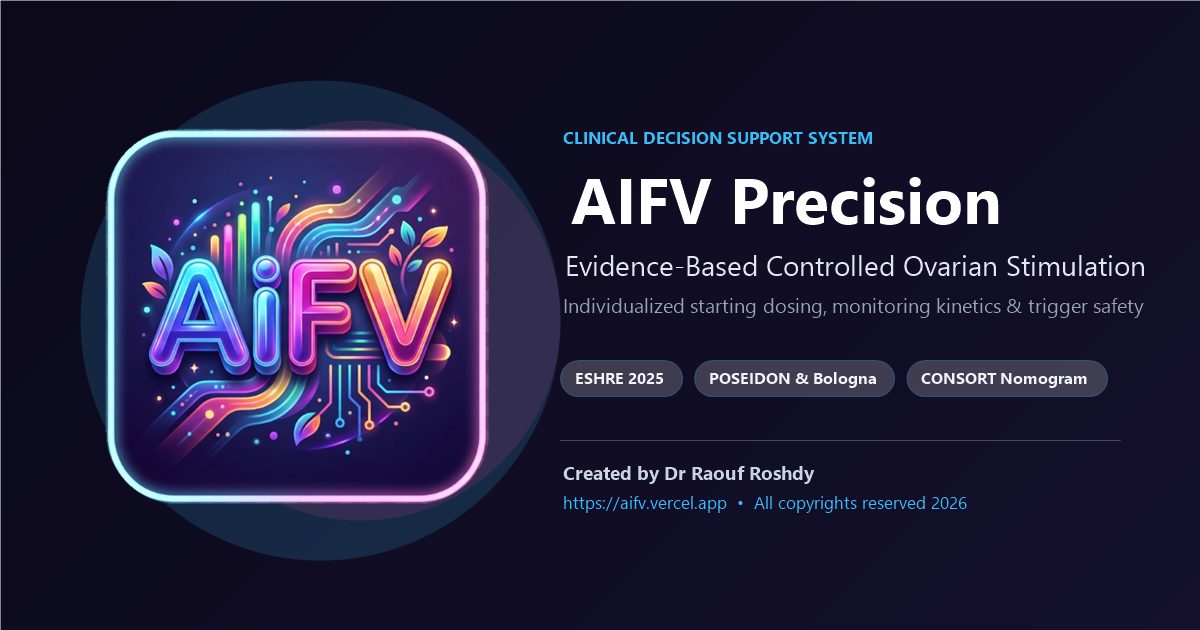
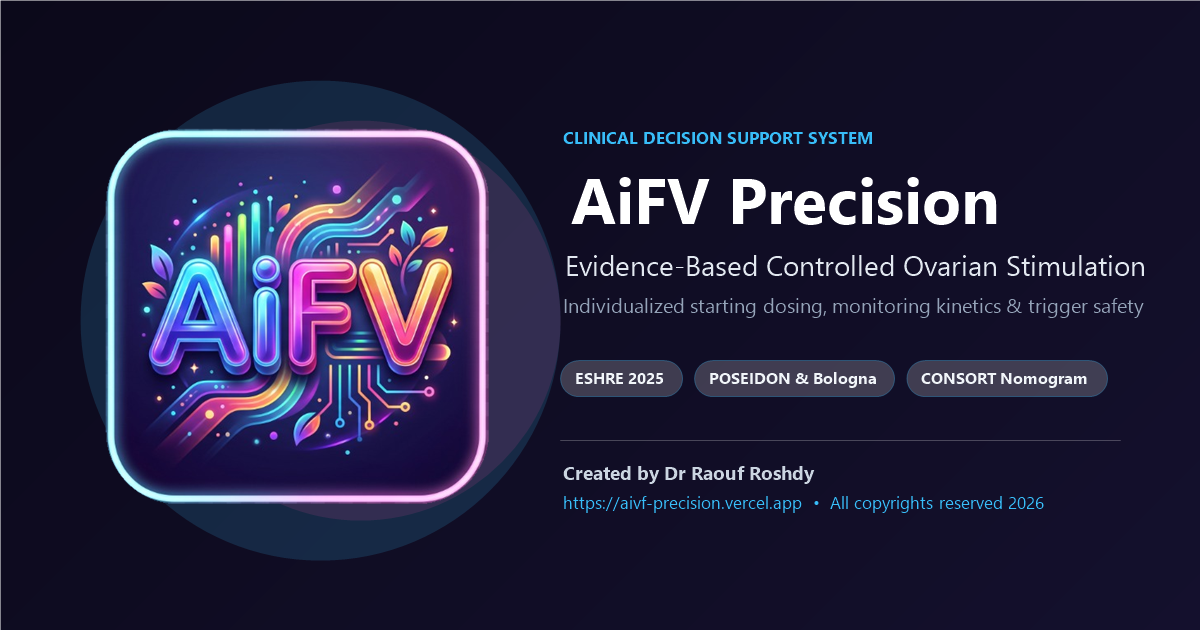
chore(branding): update official name to AiFV Precision and canonical URLs to aivf-precision.vercel.app

Changed region(s): [[0.6167, 0.3016, 0.8325, 0.3619], [0.5242, 0.7841, 0.8633, 0.8143], [0.5242, 0.2714, 0.5858, 0.3619]]

diff --git a/src/routes/__root.tsx b/src/routes/__root.tsx
@@ -109,7 +109,7 @@ export const Route = createRootRouteWithContext<{ queryClient: QueryClient }>()(
     meta: [
       { charSet: "utf-8" },
       { name: "viewport", content: "width=device-width, initial-scale=1" },
-      { title: "AIFV — Evidence-Based IVF Decision Support" },
+      { title: "AiFV Precision — Evidence-Based IVF Decision Support" },
       {
         name: "description",
         content:
@@ -121,12 +121,12 @@ export const Route = createRootRouteWithContext<{ queryClient: QueryClient }>()(
       { name: "apple-mobile-web-app-status-bar-style", content: "black-translucent" },
       { name: "apple-mobile-web-app-title", content: "AiFV" },
       { name: "application-name", content: "AiFV" },
-      { property: "og:site_name", content: "AIFV Precision" },
+      { property: "og:site_name", content: "AiFV Precision" },
       { property: "og:type", content: "website" },
       { property: "og:image", content: "/og-image.png" },
       { property: "og:image:width", content: "1200" },
       { property: "og:image:height", content: "630" },
-      { property: "og:image:alt", content: "AIFV Precision Decision Support" },
+      { property: "og:image:alt", content: "AiFV Precision Decision Support" },
       { name: "twitter:card", content: "summary_large_image" },
       { name: "twitter:image", content: "/og-image.png" },
     ],

diff --git a/src/routes/index.tsx b/src/routes/index.tsx
@@ -200,7 +200,7 @@ function Landing() {
             </div>
           </div>
           <p className="text-center text-[11px] text-muted-foreground sm:text-right">
-            © 2026 IVF Precision Decision Support · Intended for qualified fertility specialists
+            © 2026 AiFV Precision Decision Support · Intended for qualified fertility specialists
             only.
           </p>
         </div>

diff --git a/src/components/brand-mark.tsx b/src/components/brand-mark.tsx
@@ -19,7 +19,7 @@ export function BrandMark({
       {showWordmark && (
         <span className="min-w-0 leading-tight">
           <span className="block truncate font-display text-sm font-extrabold tracking-tight">
-            IVF Ai Calc
+            AiFV Precision
           </span>
           <span className="block truncate text-[11px] text-muted-foreground">
             Clinical Decision Support

diff --git a/src/components/report/intelligence-report-view.tsx b/src/components/report/intelligence-report-view.tsx
@@ -699,7 +699,7 @@ export function DisclaimerPanel({ report }: { report: IntelligenceReport }) {
           </div>
         </div>
         <p className="text-[11px] text-muted-foreground">
-          IVF Clinical Intelligence Report · ESHRE 2025 Synchronized
+          AiFV Clinical Intelligence Report · ESHRE 2025 Synchronized
         </p>
       </div>
     </section>

diff --git a/src/components/app-shell.tsx b/src/components/app-shell.tsx
@@ -315,7 +315,7 @@ export function AppShell({ children }: { children?: ReactNode }) {
               </div>
             </div>
             <div className="text-[11px] text-muted-foreground">
-              IVF Ai Calc · ESHRE 2025 Synchronized
+              AiFV Precision · ESHRE 2025 Synchronized
             </div>
           </footer>
         </main>

diff --git a/README.md b/README.md
@@ -1,7 +1,7 @@
-# AIFV CDSS — AI-IVF Clinical Decision Support System
+# AiFV Precision — AI-IVF Clinical Decision Support System
 
 <p align="center">
-  <img src="public/icon-512.png" alt="AIFV Logo" width="96" height="96" style="border-radius: 20px; box-shadow: 0 4px 20px rgba(0,0,0,0.3);" />
+  <img src="public/icon-512.png" alt="AiFV Logo" width="96" height="96" style="border-radius: 20px; box-shadow: 0 4px 20px rgba(0,0,0,0.3);" />
 </p>
 
 <p align="center">
@@ -46,7 +46,7 @@ The system standardizes every phase of controlled ovarian stimulation (COS) by i
 ---
 
 ## 🌐 Live Production Application
- 
+
 - **Primary Live URL**: [https://aivf-precision.vercel.app/](https://aivf-precision.vercel.app/)
 - **Alternative Aliases**: [https://aivf-cdss.vercel.app/](https://aivf-cdss.vercel.app/) · [https://aifv.vercel.app/](https://aifv.vercel.app/)
 - **Hosting Platform**: Vercel Serverless Edge Platform
